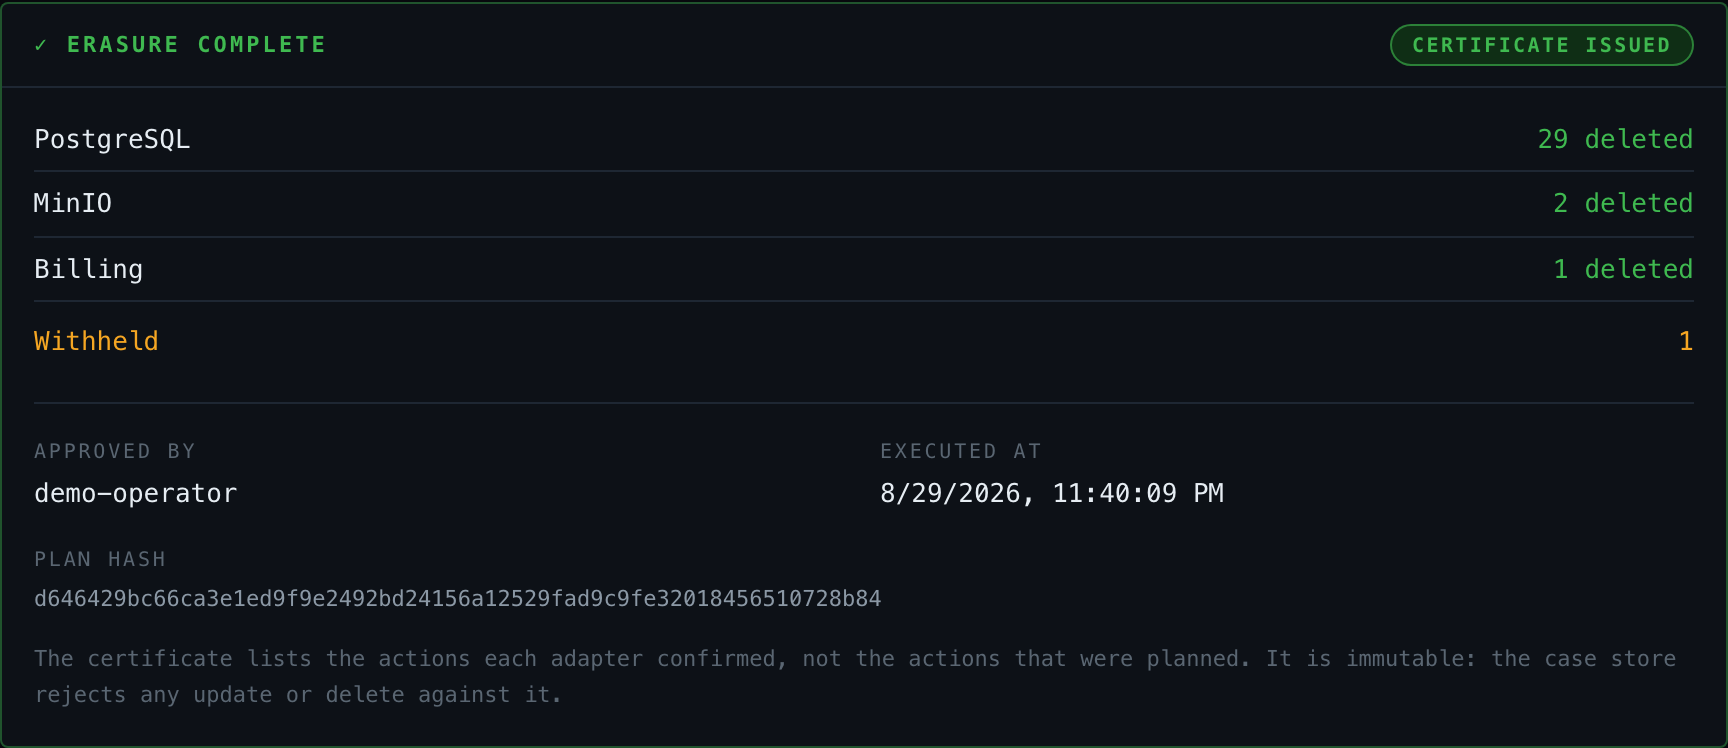
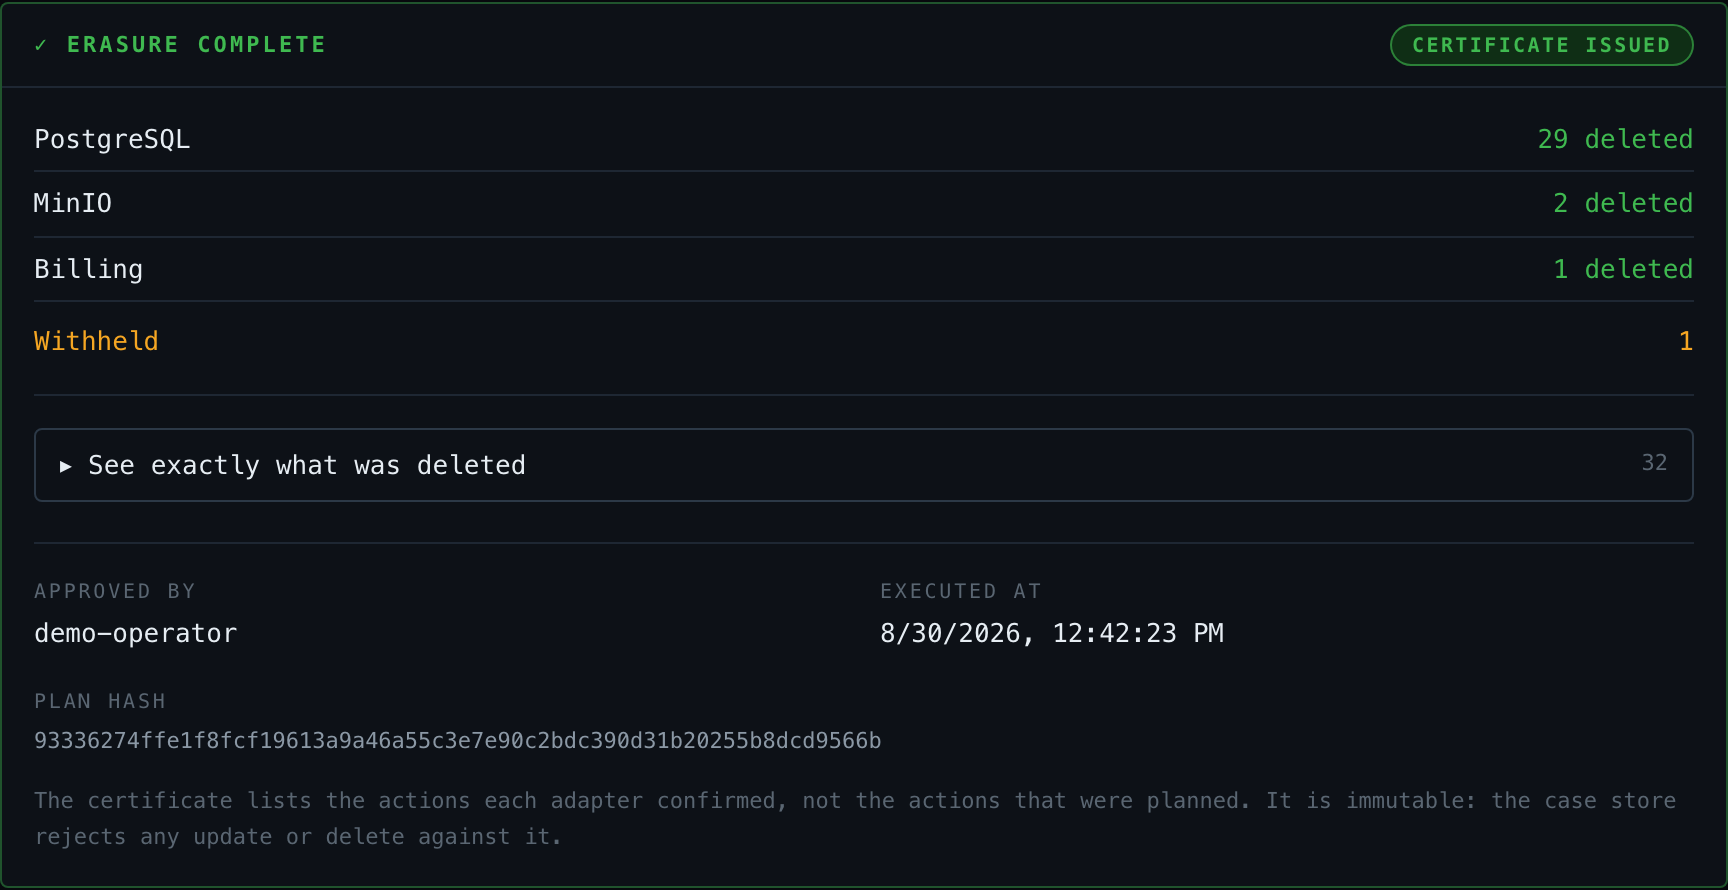
docs: reshoot the screenshots and explain the plan review
The screenshots predated the record lists, so the README showed a UI that
answered "which records?" with a count - and the section describing the demo
stopped at "it stops", never mentioning that the plan can be read before it is
signed. The most persuasive screen in the project was missing from the document
meant to persuade.

Adds the plan opened record by record, which is also the first time the identity
chain is visible rather than asserted: four event-log entries under
ravi.s@oldmail.example dated up to August 2024, four under the current address
from October onward. An agent searching only the address you typed in would have
found half of them and reported success. That is the whole case for walking
account_emails, and until now the README could only claim it.

The hero and certificate shots are retaken against the current UI, and the
opening line now says a human approves *and can read* the plan, because
approving a hash you cannot read is not review.

diff --git a/README.md b/README.md
@@ -1,11 +1,13 @@
 # Right2Erase
 
 An agent that carries out a GDPR right-to-erasure request across four systems,
-and cannot delete anything until a human approves the exact plan it rehearsed.
+and cannot delete anything until a human approves - and can read - the exact
+plan it rehearsed.
 
-![The approval gate: what the agent found, what it refuses to delete, the
-rehearsal that proved the plan safe, and the human decision that has not been
-made yet](docs/images/approval-gate.png)
+![The approval gate: the four systems searched, the one record being withheld
+and why, a sandbox rehearsal whose first attempt failed on a foreign key and
+passed on retry, and a decision that has not been made
+yet](docs/images/approval-gate.png)
 
 ## The problem
 
@@ -118,8 +120,29 @@ what will not, and why - the unsettled refund on order SK-08004 is held back
 with its reason. The only way forward is a human typing their name and
 confirming twice.
 
+**And you can read the plan before you sign it.** Not a summary of it - the
+plan itself, every record it will delete, named the way the business names
+things rather than by row id.
+
+![The plan opened record by record: event-log entries listed with the address
+each was filed under, orders by number, objects by key, and the billing
+customer with a note that its record is kept as a
+tombstone](docs/images/plan-review.png)
+
+This is where the identity chain stops being a claim. The event log shows four
+entries under `ravi.s@oldmail.example`, dated up to August 2024, and four under
+the current address from October 2024 onward - the subject changed email in
+between. An agent that searched only the address you typed in would have found
+half of them and reported success.
+
+It is also where the plan hash becomes meaningful. The hash covers exactly the
+records on screen, and Right2Erase re-derives it before executing, so an
+approval cannot be replayed against a plan the operator never saw.
+
 **You approve, and it executes.** Each adapter reports what it actually deleted,
-and a certificate is issued that nothing can later edit.
+and a certificate is issued that nothing can later edit. The same record-by-record
+list is available here too, because "what was deleted" is a question that
+outlives the moment of approving it.
 
 ![Erasure complete: 29 Postgres records, 2 objects and 1 billing record deleted,
 1 withheld, with the approver and plan hash recorded](docs/images/certificate.png)
